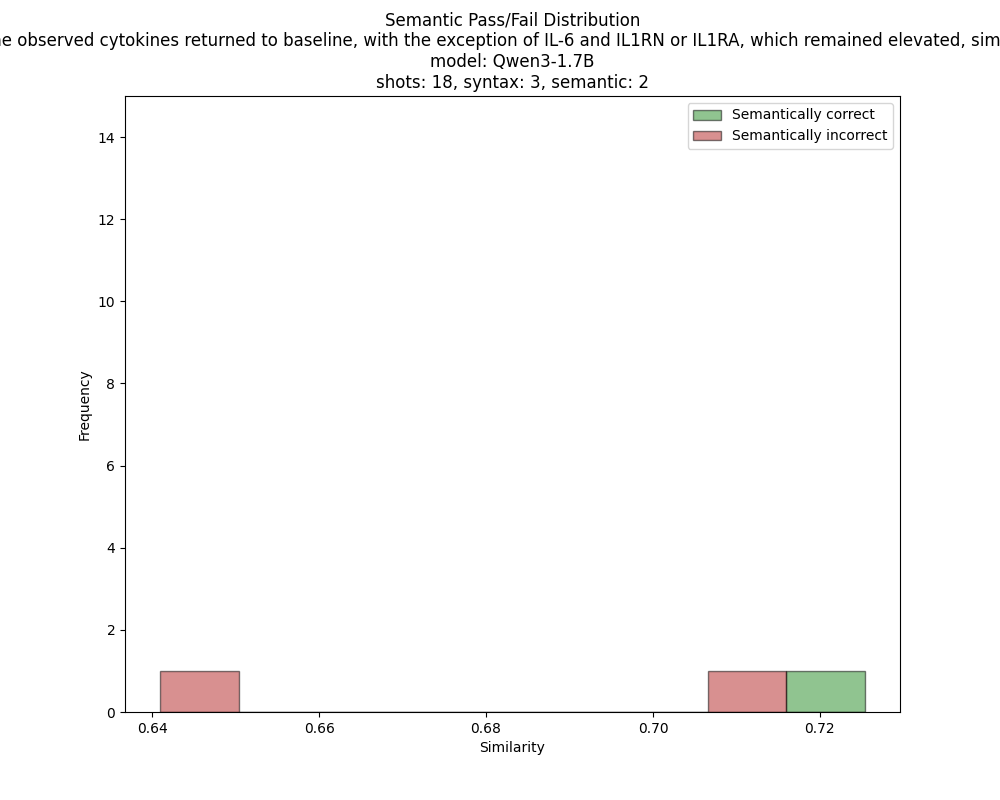
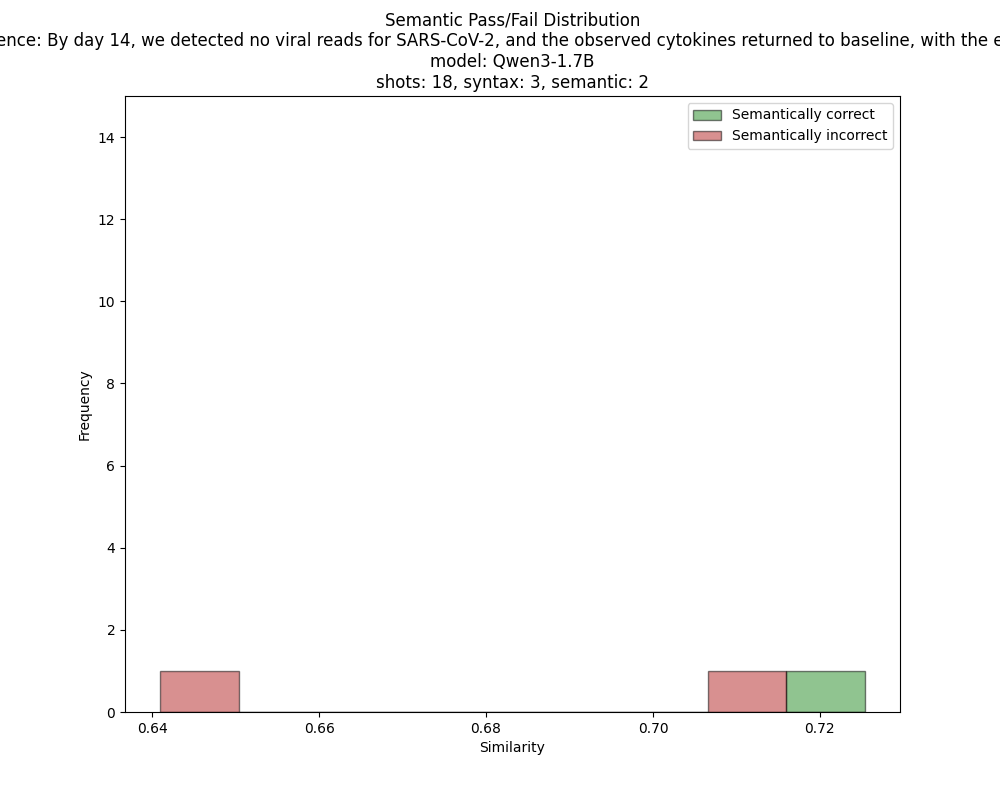
sentence label fixed

Changed region(s): [[0.0, 0.0312, 1.0, 0.0625]]

diff --git a/evaluations/generate_semantic_distribution_plots.py b/evaluations/generate_semantic_distribution_plots.py
@@ -86,7 +86,11 @@ for _id, sentence in enumerate(res.keys()): # key is sentence
     plt.xlabel('Similarity')
     plt.ylabel('Frequency')
     plt.ylim(0, 15)
-    plt.title(f'Semantic Pass/Fail Distribution\nsentence: {sentence}\nmodel: {model_name}\nshots: {shot_count}, syntax: {syntax_count}, semantic: {semantic_count}')
+    if len(sentence) >= 121:
+        m = sentence[:120]
+    else:
+        m = sentence
+    plt.title(f'Semantic Pass/Fail Distribution\nsentence: {m}\nmodel: {model_name}\nshots: {shot_count}, syntax: {syntax_count}, semantic: {semantic_count}')
     plt.legend()
     plt.savefig(f'../images/{model_name}/new_histogram_distribution_sentence_{sentence[0:15]}_shots_{shot_count}_syntax_{syntax_count}_semantic_{semantic_count}.png')
     plt.close()
